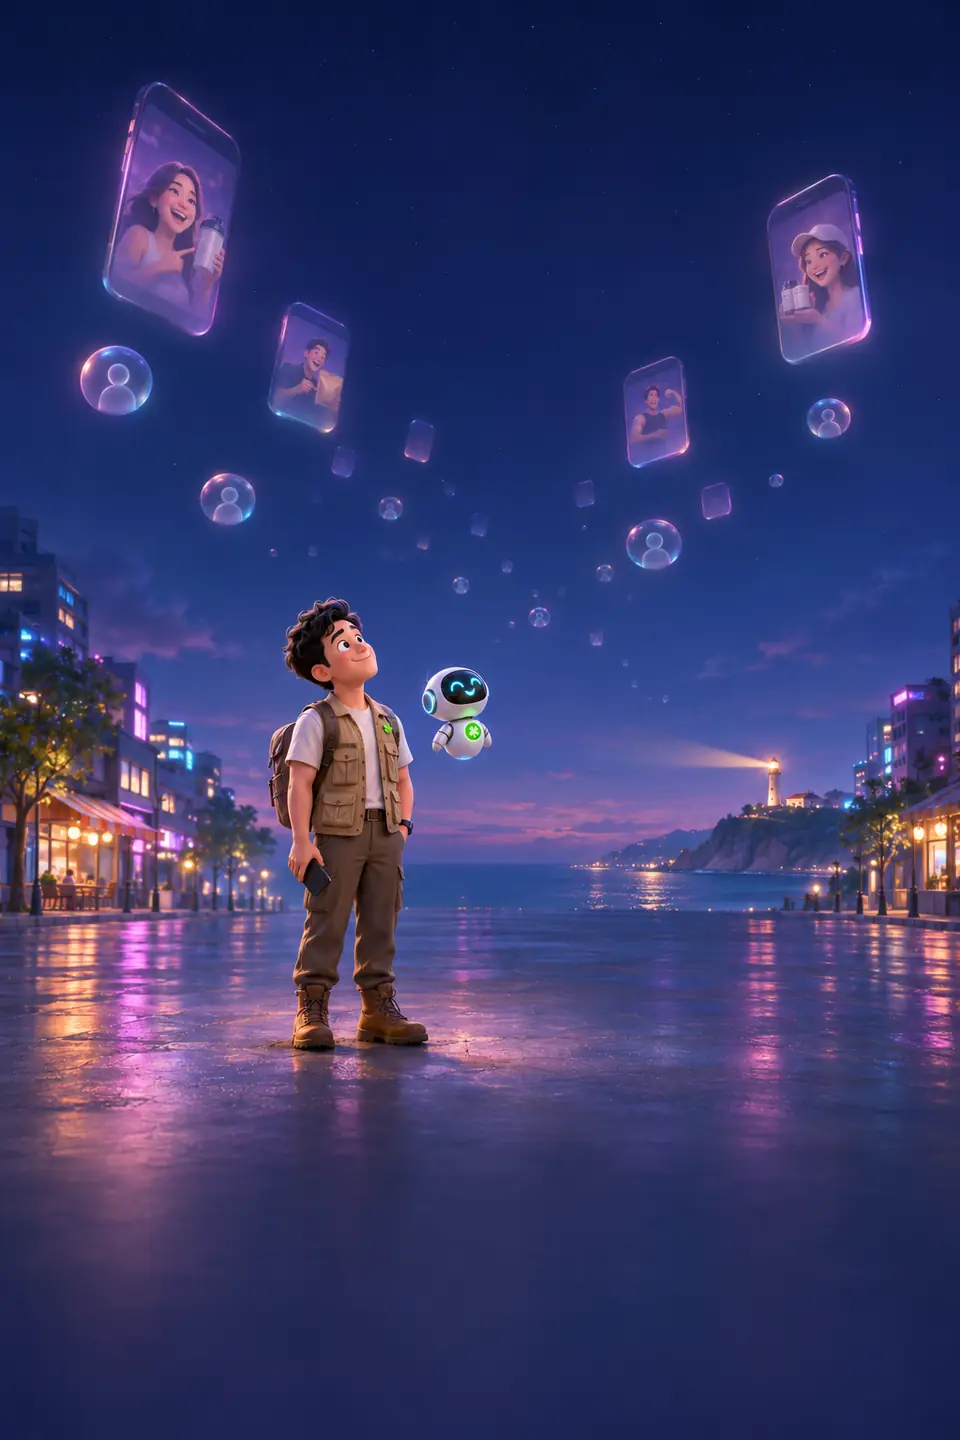
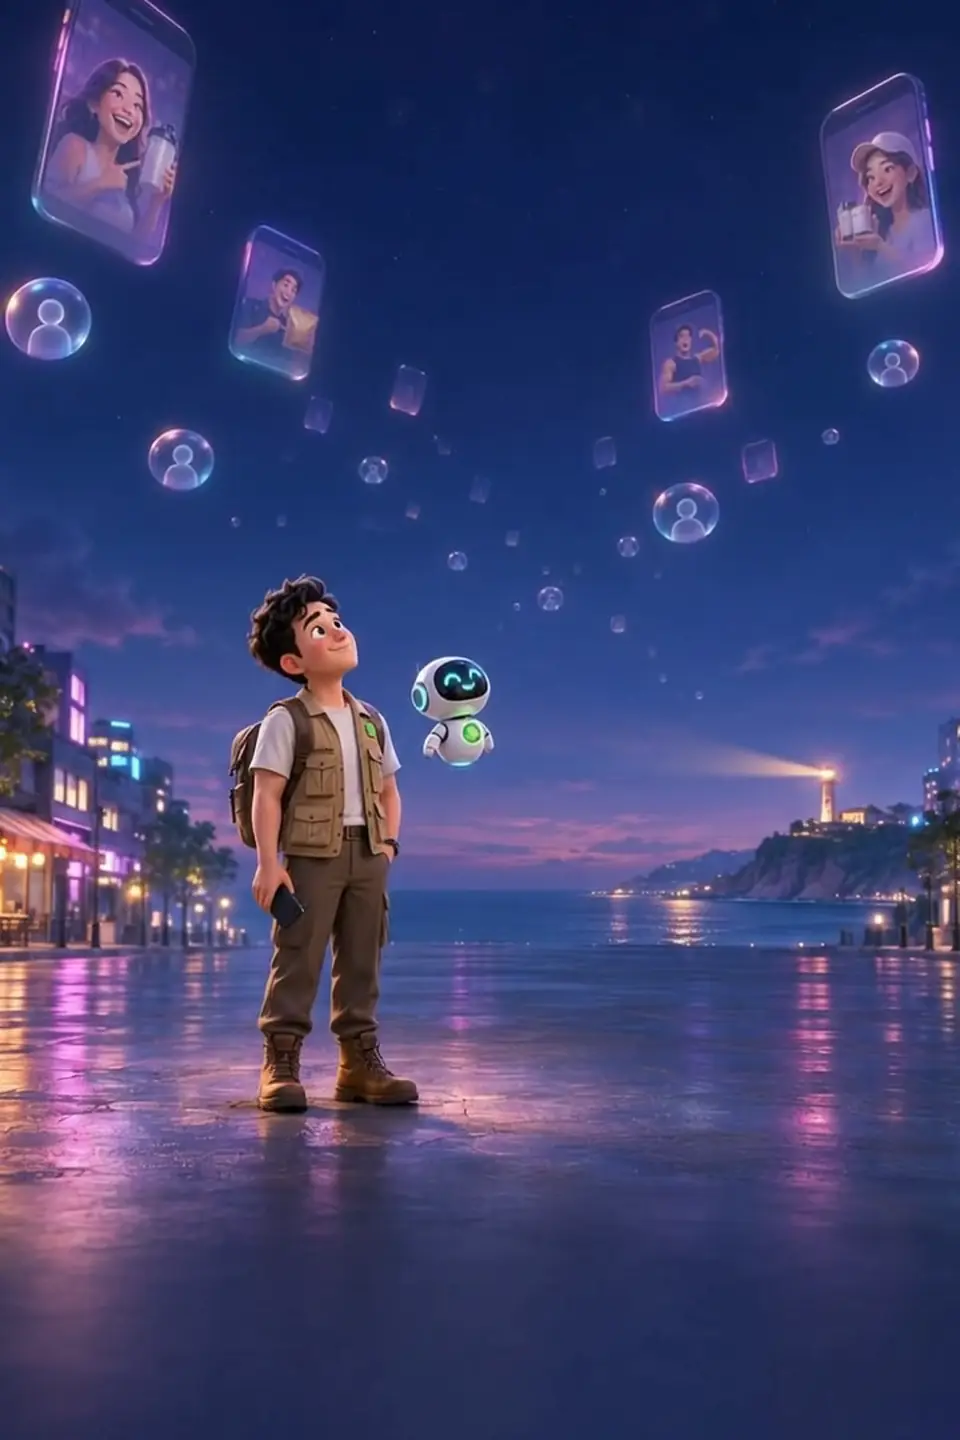
welcome: opening scene plays a Google Flow clip (#352)
- new GPT opening frame (explorer in the neon street) as k0
- Flow frames-to-video (Omni 1.2 Flash, 9:16, 8 s) from the opening to k1,
  cut to 96 webp frames for the scroll-scrubbed hook scene
- k1 is now the clip's last frame, so the seam into the next scene is exact
- clip notes move to welcome/film/CLIPS.md (PLAN.md is git-ignored repo-wide)

diff --git a/welcome/welcome.js b/welcome/welcome.js
@@ -3,14 +3,14 @@
    - ตอนนี้ใช้ภาพนิ่ง (เลื่อน = ซูมช้า ๆ แล้วละลายเข้าภาพถัดไป) · พอมีคลิป Seedance แล้ว ใส่ frames ในฉาก
      แล้ววางเฟรม webp ที่ /welcome/film/<scene>/001.webp … ระบบจะเล่นเฟรมจริงแทนเอง
    - การ์ดคำถามสร้างจาก questions.js ตัวเดียวกับที่ API ใช้ตรวจ */
-import { QUESTIONS } from './questions.js?v=20261126d';
+import { QUESTIONS } from './questions.js?v=20261126e';
 
 const KEYS = ['k0', 'k1', 'k2', 'k3', 'k4', 'k5', 'k6', 'k7', 'k8'];
 // จุดที่ต้องไม่โดนครอปเมื่อจอแคบกว่า 2:3 (0 = ซ้ายสุด, 1 = ขวาสุด)
 const FOCUS = [.5, .45, .45, .5, .45, .4, .5, .5, .58];
 // a/b = ภาพหลักต้น/ท้ายฉาก · frames = จำนวนเฟรมของคลิปจริง (0 = ยังใช้ภาพนิ่ง)
 const SCENES = [
-  { id: 'hook', a: 0, b: 1, frames: 0 },
+  { id: 'hook', a: 0, b: 1, frames: 96 },
   { id: 'tom', a: 1, b: 2, frames: 0 },
   { id: 'pain', a: 2, b: 3, frames: 0 },
   { id: 'why', a: 3, b: 4, frames: 0 },

diff --git a/welcome/index.html b/welcome/index.html
@@ -23,8 +23,8 @@
 <meta name="theme-color" content="#05070f">
 <link rel="preload" href="/xircle/assets/fonts/ibm-plex-sans-thai-thai-700.woff2" as="font" type="font/woff2" crossorigin>
 <link rel="preload" href="/welcome/film/k0.webp" as="image">
-<link rel="stylesheet" href="/welcome/welcome.css?v=20261126d">
-<script type="module" src="/welcome/welcome.js?v=20261126d"></script>
+<link rel="stylesheet" href="/welcome/welcome.css?v=20261126e">
+<script type="module" src="/welcome/welcome.js?v=20261126e"></script>
 </head>
 <body>
 

diff --git a/welcome/film/CLIPS.md b/welcome/film/CLIPS.md
@@ -1,0 +1,31 @@
+# ฟิล์มหน้า /welcome · ภาพหลัก 9 ภาพ → คลิป Seedance 8 คลิป
+
+ฟิล์มเล่าตามสคริปต์ยาวของพี่ทอม (xvisor-invite-script-long-v1) เป็นฉากต่อเนื่อง
+ภาพท้ายของฉากหนึ่ง = ภาพแรกของฉากถัดไป (seam frame) คลิปจึงต่อกันเป็นเรื่องเดียวไม่มีรอยตัด
+
+| ฉาก | ช่วงในสคริปต์ | เริ่ม → จบ | การเคลื่อนกล้อง (prompt Seedance) |
+|---|---|---|---|
+| hook | ฮุก 0:00–0:30 | k0 ถนนนีออน → k1 ลูกค้าลอยหาย ประภาคารเปิดไฟ | screens drift up like lanterns, customer bubbles float away, slow tilt up to the sky, lighthouse beam turns on |
+| tom | ช่วง 1 ผมเป็นใคร | k1 → k2 ห้องบนประภาคาร ส่งเข็มทิศโคลเวอร์ | camera flies over the sea to the lighthouse and through its window, warm lantern light |
+| pain | ช่วง 2 บ้านบนที่ดินคนอื่น | k2 → k3 บ้านบนแท่นจอมือถือที่แตก | the room dissolves into a stormy sky, the house rises onto a floating screen platform that tilts and cracks |
+| why | ช่วง 3 Reach · Read · Result | k3 → k4 เนินเขาตอนเช้า ขึ้นชั่ง แสงวงรอบตัว | storm clears to sunrise, platform falls away, the explorer lands on a green hill, rings of light rise |
+| product | ช่วง 4 RoutineX A·B·C·D | k4 → k5 กล่องเปิด การ์ด 4 ใบลอย | camera follows the light into a kitchen, the box lid lifts, four glowing cards float out |
+| story | ช่วง 5 จากคนขายของเป็นคนดูแล | k5 → k6 ดูแลครอบครัวเพื่อนบ้าน | cards fly out of the window to a neighbour's home, explorer kneels to show a family their numbers |
+| ai | ช่วง 6 เครื่องมือ AI | k6 → k7 หุ่นจัดงานให้ นักสำรวจพักจิบชา | holograms multiply around the robot, the explorer sits back with tea |
+| start | CTA สองทาง | k7 → k8 ทางแยก ประตูทองบนเนิน | camera pulls out of the window to a fork in the trail and a golden gate at sunrise |
+
+## ตั้งค่าที่แนะนำ
+Seedance 2.5 · mode `omni_reference` · start_image = kN · end_image = kN+1 · 9:16 · 5 วินาที · 720p · ไม่เอาเสียง
+- ราคาที่ Higgsfield ตอบ (26 พ.ย. 2026): 35 เครดิต/คลิป · ร่าง 480p (`draft: true`) 15 เครดิต/คลิป
+- ครบ 8 ฉาก: ร่าง 120 เครดิต แล้วจริง 280 เครดิต · ยอดคงเหลือตอนเช็ก 966.91
+- ต้องแสดง prompt + ราคาทุกช็อต และรอ Teem อนุมัติก่อนกดเจนทุกครั้ง
+
+## ทำแล้ว
+- hook (26 พ.ย. 2026): Google Flow · โหมดเฟรม · Omni 1.2 Flash · 9:16 · 720p · 8 วิ · x1 = 24 เครดิต Flow
+  ภาพเริ่ม = ภาพเปิดใหม่จาก GPT (ครอป 9:16) · ภาพจบ = k1 ครอป 9:16 · แตกเฟรม 12 fps = 96 เฟรม (4.8 MB)
+  k0 = ภาพเปิดเดียวกัน k1 = เฟรมสุดท้ายของคลิป (รอยต่อกับฉาก tom ตรงพอดี) · ต้นฉบับอยู่ ~/Claude/welcome-flow/
+
+## เอาคลิปมาใส่หน้า
+1. `node tools/welcome-frames.mjs <scene> <clip.mp4>` → `welcome/film/<scene>/001.webp…`
+2. ใส่จำนวนเฟรมที่ `frames` ของฉากนั้นใน `welcome/welcome.js`
+3. ระหว่างที่เฟรมยังโหลดไม่ครบ หน้าใช้ภาพนิ่งซูมเข้าแล้วละลายต่อแทน (คือแบบตอนนี้)

diff --git a/welcome/README.md b/welcome/README.md
@@ -7,7 +7,7 @@
 - `index.html` ฉากและข้อความ (แต่ละฉาก = `.track` ราง + `.pin` จอที่ติด + `.beat` ข้อความทีละจังหวะ + `.rest` การ์ดบนเฟรมนิ่ง)
 - `welcome.js` วาดฟิล์มบน canvas, ข้อความตามการเลื่อน, การ์ดคำถาม, ฟอร์ม
 - `questions.js` คำถามและตัวเลือก ใช้ร่วมกับ `api/_lib/welcome.js` (แก้ตัวเลือก: id ห้ามเปลี่ยนหลังเปิดใช้)
-- `film/k0.webp … k8.webp` ภาพหลัก (ChatGPT, การ์ตูนแนว Pixar, 960×1440) · `film/PLAN.md` แผนคลิป Seedance
+- `film/k0.webp … k8.webp` ภาพหลัก (ChatGPT, การ์ตูนแนว Pixar, 960×1440) · `film/CLIPS.md` แผนคลิป Seedance
 - `admin/` หน้าดูผล ใส่รหัส `MEET_ADMIN_KEY` แล้วเห็นฉากที่คนไปถึง คำตอบ และรายชื่อที่ฝากไว้ (ดาวน์โหลด CSV ได้)
 
 ## ข้อมูลที่เก็บ (`/api/welcome`, Neon `DATABASE_URL`)
